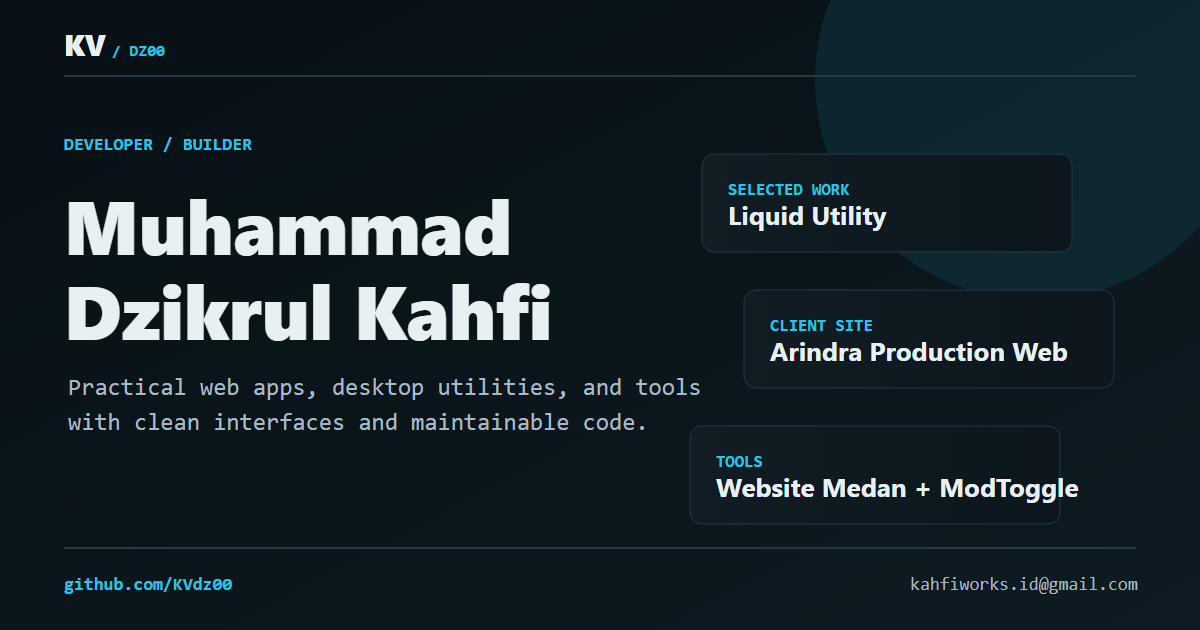
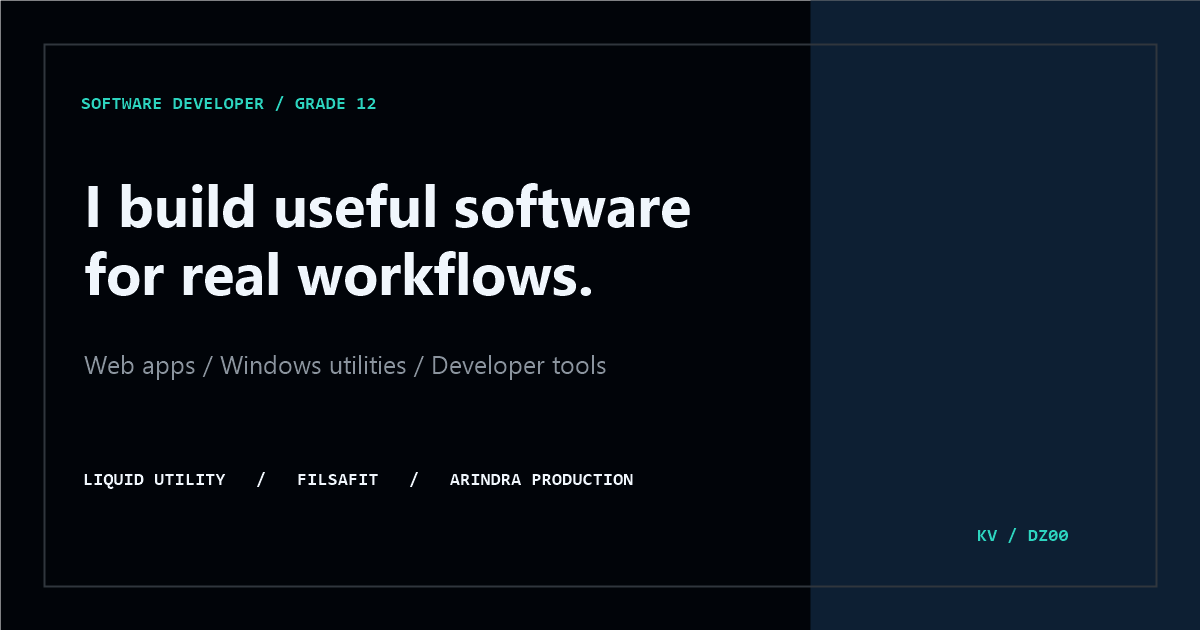
feat: refresh portfolio metadata and brand assets

diff --git a/index.html b/index.html
@@ -5,38 +5,38 @@
     <meta name="viewport" content="width=device-width, initial-scale=1.0" />
     <meta
       name="description"
-      content="Muhammad Dzikrul Kahfi builds practical web apps, desktop utilities, and tools with clean interfaces and maintainable code."
+      content="Muhammad Dzikrul Kahfi is a Grade 12 vocational student and software developer building practical web apps, Windows utilities, and developer tools."
     />
     <meta name="author" content="Muhammad Dzikrul Kahfi" />
-    <meta name="theme-color" content="#071014" />
-    <link rel="canonical" href="https://kvdz00-portfolio-v2.vercel.app/" />
+    <meta name="theme-color" content="#010409" />
+    <link rel="canonical" href="https://dzikrulkahfi.my.id/" />
     <link rel="icon" type="image/svg+xml" href="/favicon.svg" />
     <link rel="apple-touch-icon" href="/apple-touch-icon.png" />
     <meta property="og:type" content="website" />
     <meta property="og:site_name" content="KVdz00 Portfolio" />
-    <meta property="og:title" content="Muhammad Dzikrul Kahfi | Portfolio" />
+    <meta property="og:title" content="Muhammad Dzikrul Kahfi | Software Developer" />
     <meta
       property="og:description"
-      content="Practical web apps, desktop utilities, and tools with clean interfaces and maintainable code."
+      content="Grade 12 vocational student building practical web apps, Windows utilities, and developer tools."
     />
-    <meta property="og:url" content="https://kvdz00-portfolio-v2.vercel.app/" />
-    <meta property="og:image" content="https://kvdz00-portfolio-v2.vercel.app/og-image.png" />
-    <meta property="og:image:secure_url" content="https://kvdz00-portfolio-v2.vercel.app/og-image.png" />
+    <meta property="og:url" content="https://dzikrulkahfi.my.id/" />
+    <meta property="og:image" content="https://dzikrulkahfi.my.id/og-image.png" />
+    <meta property="og:image:secure_url" content="https://dzikrulkahfi.my.id/og-image.png" />
     <meta property="og:image:type" content="image/png" />
     <meta property="og:image:width" content="1200" />
     <meta property="og:image:height" content="630" />
     <meta
       property="og:image:alt"
-      content="Muhammad Dzikrul Kahfi portfolio preview with selected work and contact links."
+      content="Muhammad Dzikrul Kahfi portfolio with recruiter-focused software project highlights."
     />
     <meta name="twitter:card" content="summary_large_image" />
-    <meta name="twitter:title" content="Muhammad Dzikrul Kahfi | Portfolio" />
+    <meta name="twitter:title" content="Muhammad Dzikrul Kahfi | Software Developer" />
     <meta
       name="twitter:description"
-      content="Practical web apps, desktop utilities, and tools with clean interfaces and maintainable code."
+      content="Grade 12 vocational student building practical web apps, Windows utilities, and developer tools."
     />
-    <meta name="twitter:image" content="https://kvdz00-portfolio-v2.vercel.app/og-image.png" />
-    <title>Muhammad Dzikrul Kahfi | Portfolio</title>
+    <meta name="twitter:image" content="https://dzikrulkahfi.my.id/og-image.png" />
+    <title>Muhammad Dzikrul Kahfi | Software Developer</title>
     <script>
       (() => {
         const key = "kvdz00-portfolio-theme";
@@ -45,7 +45,7 @@
         document.documentElement.style.colorScheme = theme;
         document
           .querySelector('meta[name="theme-color"]')
-          ?.setAttribute("content", theme === "light" ? "#f4f8fb" : "#071014");
+          ?.setAttribute("content", theme === "light" ? "#f6f8fa" : "#010409");
       })();
     </script>
     <script type="application/ld+json">
@@ -54,14 +54,15 @@
         "@type": "Person",
         "name": "Muhammad Dzikrul Kahfi",
         "alternateName": "KVdz00",
-        "url": "https://kvdz00-portfolio-v2.vercel.app/",
-        "image": "https://kvdz00-portfolio-v2.vercel.app/og-image.png",
+        "url": "https://dzikrulkahfi.my.id/",
+        "image": "https://dzikrulkahfi.my.id/profile-avatar.png",
         "sameAs": [
           "https://github.com/KVdz00",
-          "https://www.instagram.com/dzikv_/"
+          "https://www.linkedin.com/in/muhammad-dzikrul-kahfi-0ba869386"
         ],
         "email": "mailto:kahfiworks.id@gmail.com",
-        "jobTitle": "Developer"
+        "jobTitle": "Software Developer",
+        "description": "Grade 12 vocational student building practical web applications, Windows utilities, and developer tools."
       }
     </script>
   </head>

diff --git a/src/metadata.test.ts b/src/metadata.test.ts
@@ -1,0 +1,29 @@
+// @ts-expect-error The frontend TypeScript project intentionally omits Node types; Vitest supplies these runtime modules.
+import { existsSync, readFileSync, statSync } from "node:fs";
+// @ts-expect-error The frontend TypeScript project intentionally omits Node types; Vitest supplies these runtime modules.
+import { resolve } from "node:path";
+import { describe, expect, it } from "vitest";
+
+// @ts-expect-error Vitest exposes import.meta.dirname while the browser-focused app typecheck does not declare it.
+const root = resolve(import.meta.dirname, "..");
+const html = readFileSync(resolve(root, "index.html"), "utf8");
+
+describe("public metadata", () => {
+  it("uses the public custom domain and approved positioning", () => {
+    expect(html).toContain('href="https://dzikrulkahfi.my.id/"');
+    expect(html).toContain('content="https://dzikrulkahfi.my.id/"');
+    expect(html).toContain("Grade 12 vocational student");
+    expect(html).toContain('"jobTitle": "Software Developer"');
+  });
+
+  it("references local social assets with useful alt text", () => {
+    expect(html).toContain("https://dzikrulkahfi.my.id/og-image.png");
+    expect(html).toContain("Muhammad Dzikrul Kahfi portfolio");
+
+    for (const asset of ["og-image.png", "apple-touch-icon.png", "favicon.svg"]) {
+      const path = resolve(root, "public", asset);
+      expect(existsSync(path)).toBe(true);
+      expect(statSync(path).size).toBeGreaterThan(100);
+    }
+  });
+});
